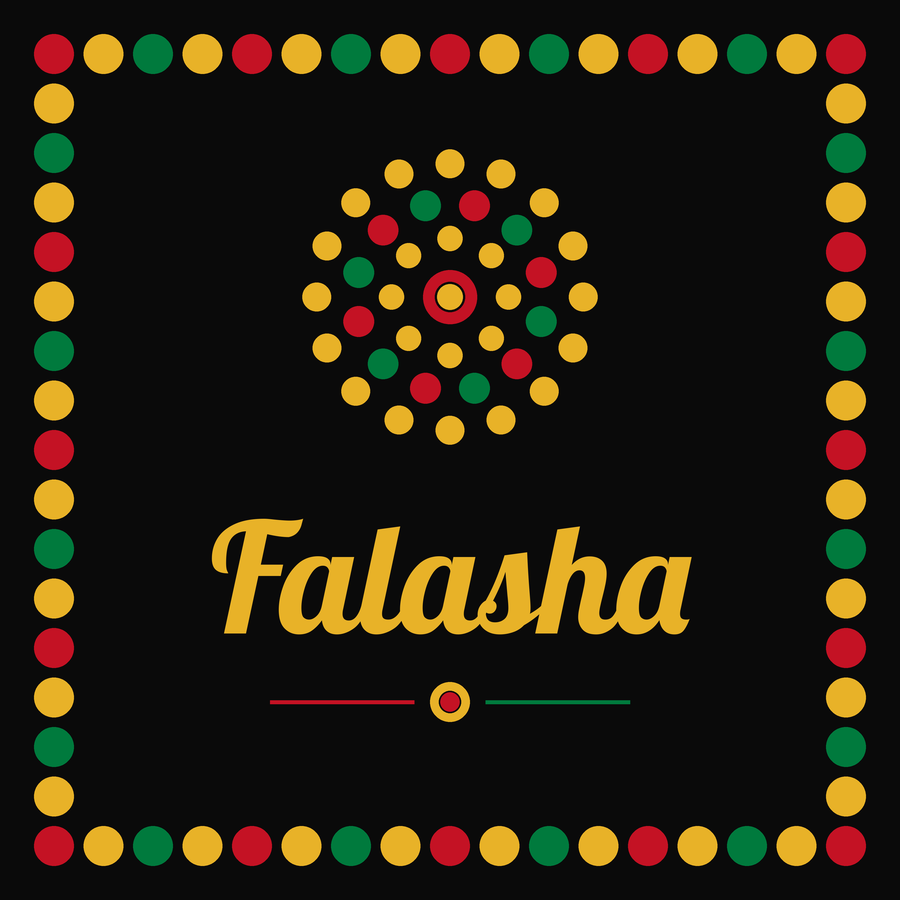
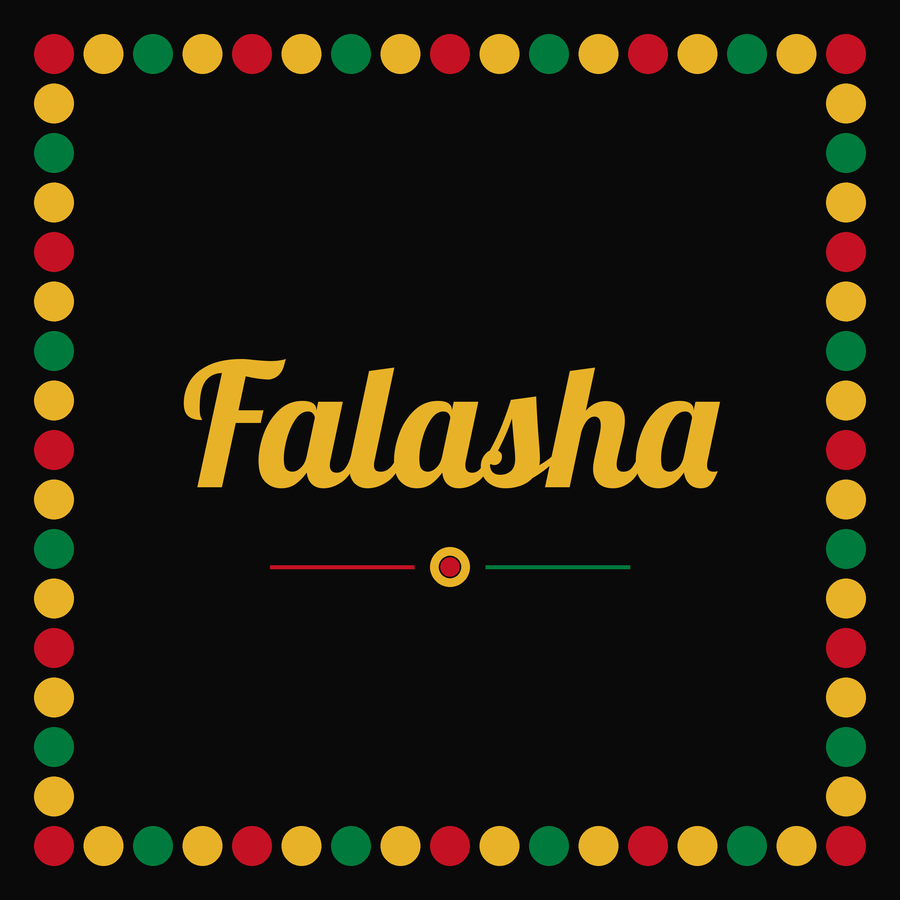
Mandala outside label: remove dot emblem above the name
Claude-Session: https://claude.ai/code/session_01Mt1Tg14bgvqpkRSeX5tTDt

Changed region(s): [[0.1867, 0.1556, 0.8089, 0.7156], [0.3111, 0.7467, 0.6844, 0.8089]]

diff --git a/heritage-crossbody-bag/make_mandala_labels.py b/heritage-crossbody-bag/make_mandala_labels.py
@@ -46,15 +46,9 @@ def outside(fonts):
     im = Image.new("RGB", (S, S), BLACK)
     d = ImageDraw.Draw(im)
     dot_border(d, S, S * 0.06, S * 0.022, ["red", "gold", "green", "gold"])
-    # small dot mandala above the name
-    cx, cy = S / 2, S * 0.33
-    dot(d, cx, cy, S * 0.03, "redgold")
-    dot_ring(d, cx, cy, S * 0.065, 8, S * 0.014, ["gold"])
-    dot_ring(d, cx, cy, S * 0.105, 12, S * 0.017, ["green", "red"], math.pi / 12)
-    dot_ring(d, cx, cy, S * 0.148, 16, S * 0.016, ["gold"])
-    f = ImageFont.truetype(str(fonts / "Lobster.ttf"), round(S * 0.17))
-    d.text((S / 2, S * 0.64), "Falasha", font=f, anchor="mm", fill=GOLD)
-    divider(d, S, S * 0.78, S * 0.022)
+    f = ImageFont.truetype(str(fonts / "Lobster.ttf"), round(S * 0.19))
+    d.text((S / 2, S * 0.47), "Falasha", font=f, anchor="mm", fill=GOLD)
+    divider(d, S, S * 0.63, S * 0.022)
     return im.resize((PX, PX), Image.LANCZOS)
 
 
